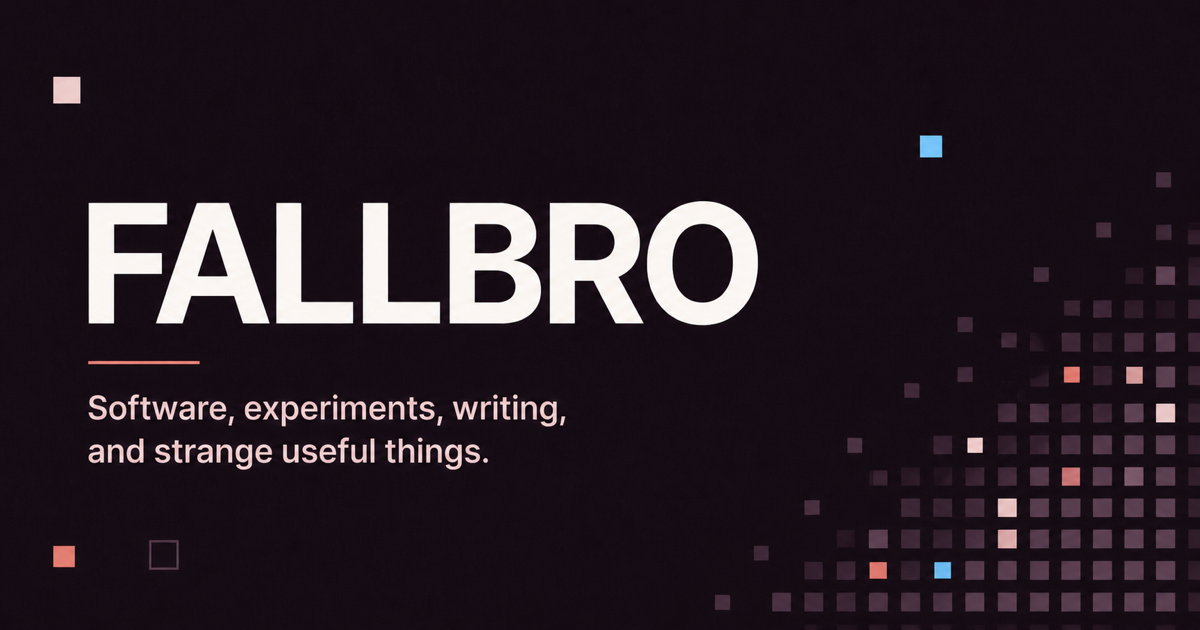
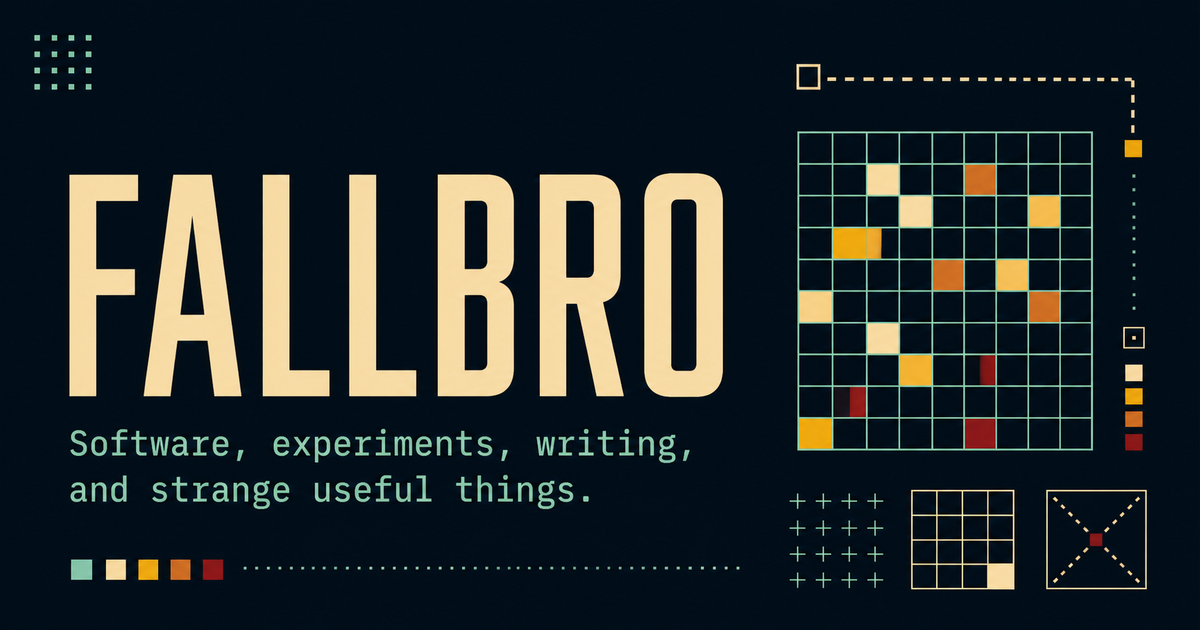
apply new FALLBRO color palette

diff --git a/src/styles/color.css b/src/styles/color.css
@@ -1,23 +1,23 @@
 :root {
-  --gray-1:  light-dark(#fdfafb, #17151b);
-  --gray-2:  light-dark(#f9f4f6, #1f1c24);
-  --gray-3:  light-dark(#f1e9ed, #28242f);
-  --gray-4:  light-dark(#e9dfe4, #312c39);
-  --gray-5:  light-dark(#dfd3d9, #3a3543);
-  --gray-6:  light-dark(#d4c5cd, #474151);
-  --gray-7:  light-dark(#c4b2bc, #575064);
-  --gray-8:  light-dark(#ad98a4, #70687d);
-  --gray-9:  light-dark(#837780, #837b8f);
-  --gray-10: light-dark(#776b74, #928a9d);
-  --gray-11: light-dark(#625862, #c2b9c6);
-  --gray-12: light-dark(#302c35, #f3edf4);
+  --gray-1:  light-dark(#fffdf7, #001219);
+  --gray-2:  light-dark(#faf6e8, #071d24);
+  --gray-3:  light-dark(#f3ecd5, #0c2730);
+  --gray-4:  light-dark(#eae0c2, #12313a);
+  --gray-5:  light-dark(#ddcfaa, #1a3d45);
+  --gray-6:  light-dark(#c9bb9c, #234a51);
+  --gray-7:  light-dark(#aa9e83, #315d62);
+  --gray-8:  light-dark(#887f6d, #47757a);
+  --gray-9:  light-dark(#6e685c, #5f8c8e);
+  --gray-10: light-dark(#5f5a51, #76a4a2);
+  --gray-11: light-dark(#4c4b44, #a6cbc0);
+  --gray-12: light-dark(#001219, #e9f4ed);
 
-  --accent: light-dark(#286a87, #6cd4ff);
-  --accent-soft: light-dark(#f1dede, #4b3440);
-  --accent-warm: light-dark(#b33f48, #fe938c);
+  --accent: light-dark(#005f73, #94d2bd);
+  --accent-soft: light-dark(#dff2eb, #083e47);
+  --accent-warm: light-dark(#9b2226, #ee9b00);
 
-  --red-9:  light-dark(#e5484d, #e5484d);
-  --red-11: light-dark(#ce2c31, #ff9592);
+  --red-9:  light-dark(#ae2012, #bb3e03);
+  --red-11: light-dark(#9b2226, #f3aa39);
 
   --background:         var(--gray-1);
   --foreground:         var(--gray-12);

diff --git a/src/styles/callout.css b/src/styles/callout.css
@@ -65,9 +65,9 @@ prose-content {
     }
   }
 
-  [data-callout="note"]      { --accent: #0090ff; }
-  [data-callout="tip"]       { --accent: #30a46c; }
-  [data-callout="warning"]   { --accent: #ffc53d; }
-  [data-callout="caution"]   { --accent: #e5484d; }
-  [data-callout="important"] { --accent: #8e4ec6; }
+  [data-callout="note"]      { --accent: #0a9396; }
+  [data-callout="tip"]       { --accent: #94d2bd; }
+  [data-callout="warning"]   { --accent: #ee9b00; }
+  [data-callout="caution"]   { --accent: #ae2012; }
+  [data-callout="important"] { --accent: #005f73; }
 }
